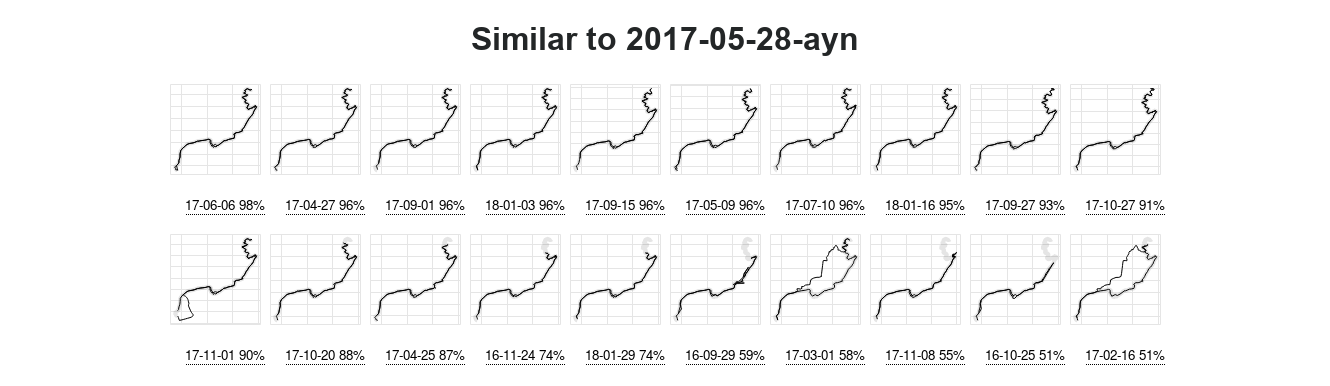
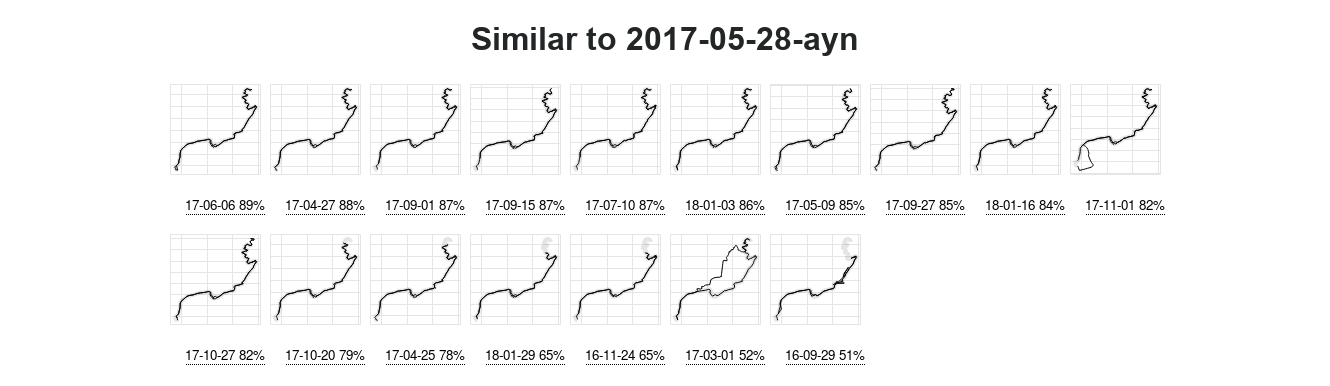
new images

diff --git a/ch2/config/database.py b/ch2/config/database.py
@@ -244,7 +244,7 @@ def add_topic_field(s, topic, name, sort, description=None, units=None, summary=
                               statistic_name=statistic_name))
 
 
-def add_nearby(s, sort, activity_group, constraint, latitude, longitude, border=3,
+def add_nearby(s, sort, activity_group, constraint, latitude, longitude, border=5,
                start='1970', finish='2999', height=10, width=10, constant=NEARBY_CNAME):
     '''
     Add a pipeline task (and related constant) to find nearby activities in a given geographic
